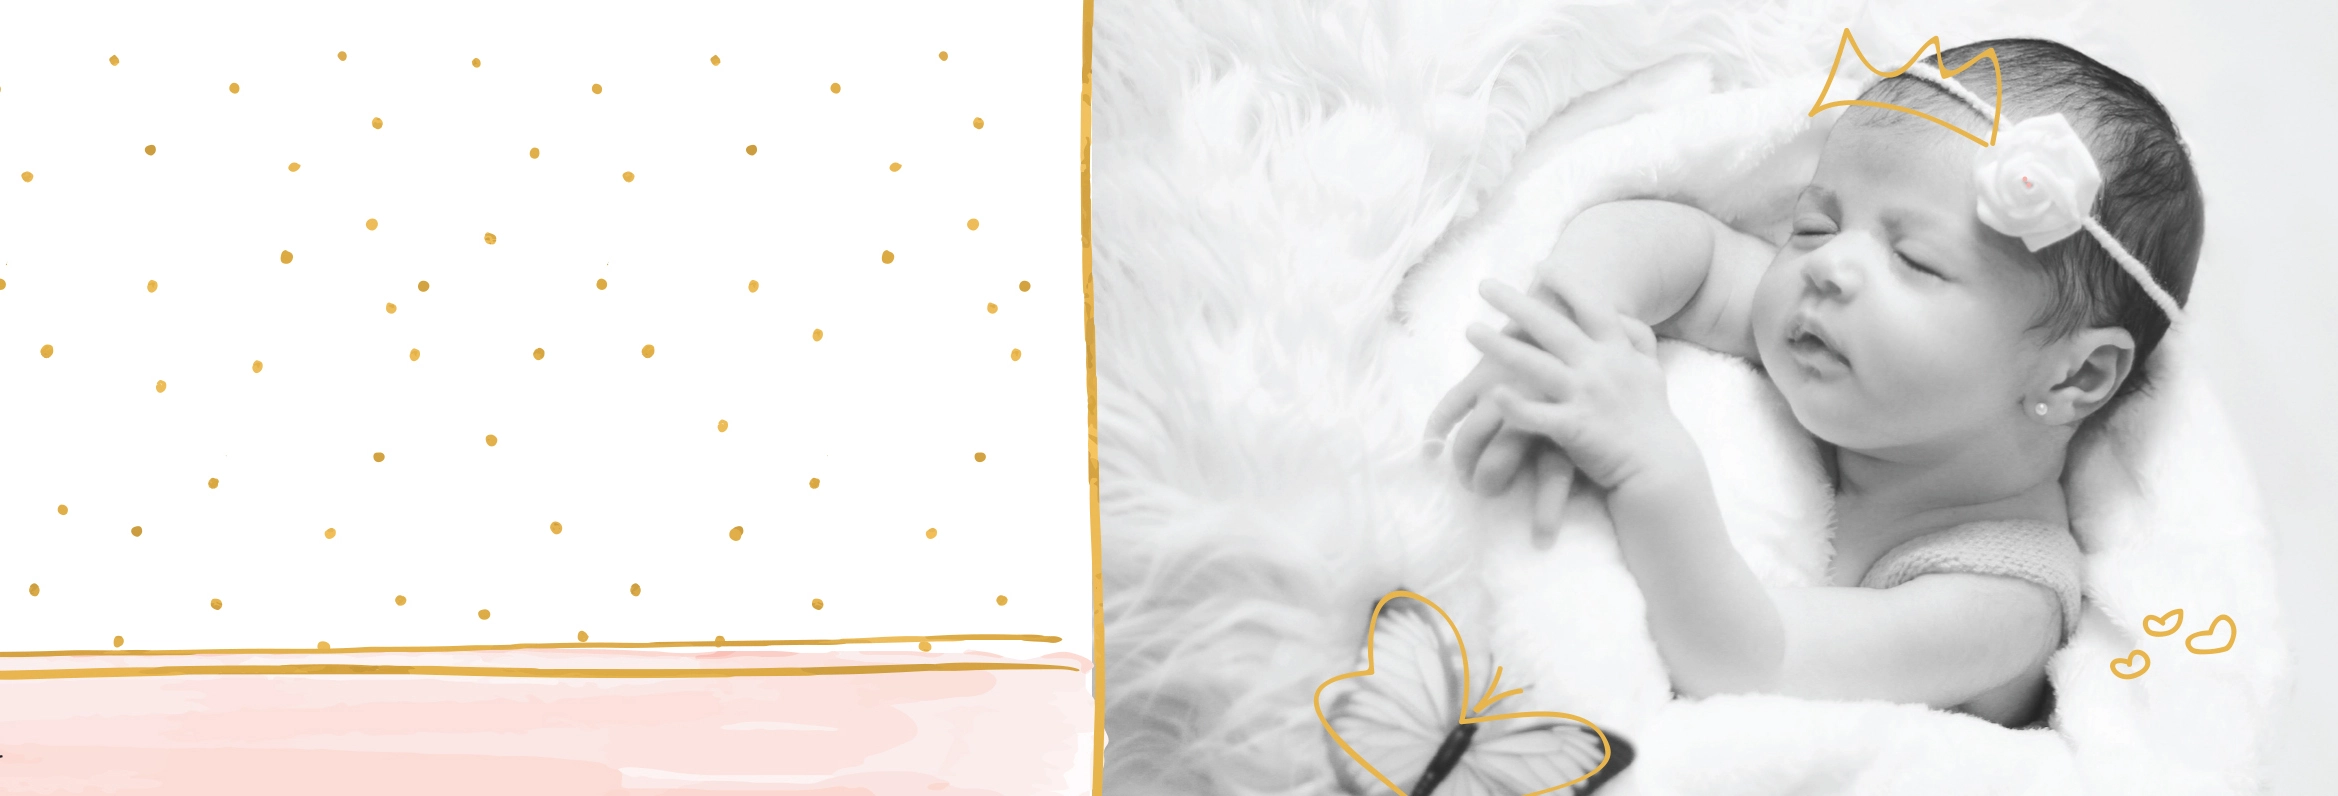
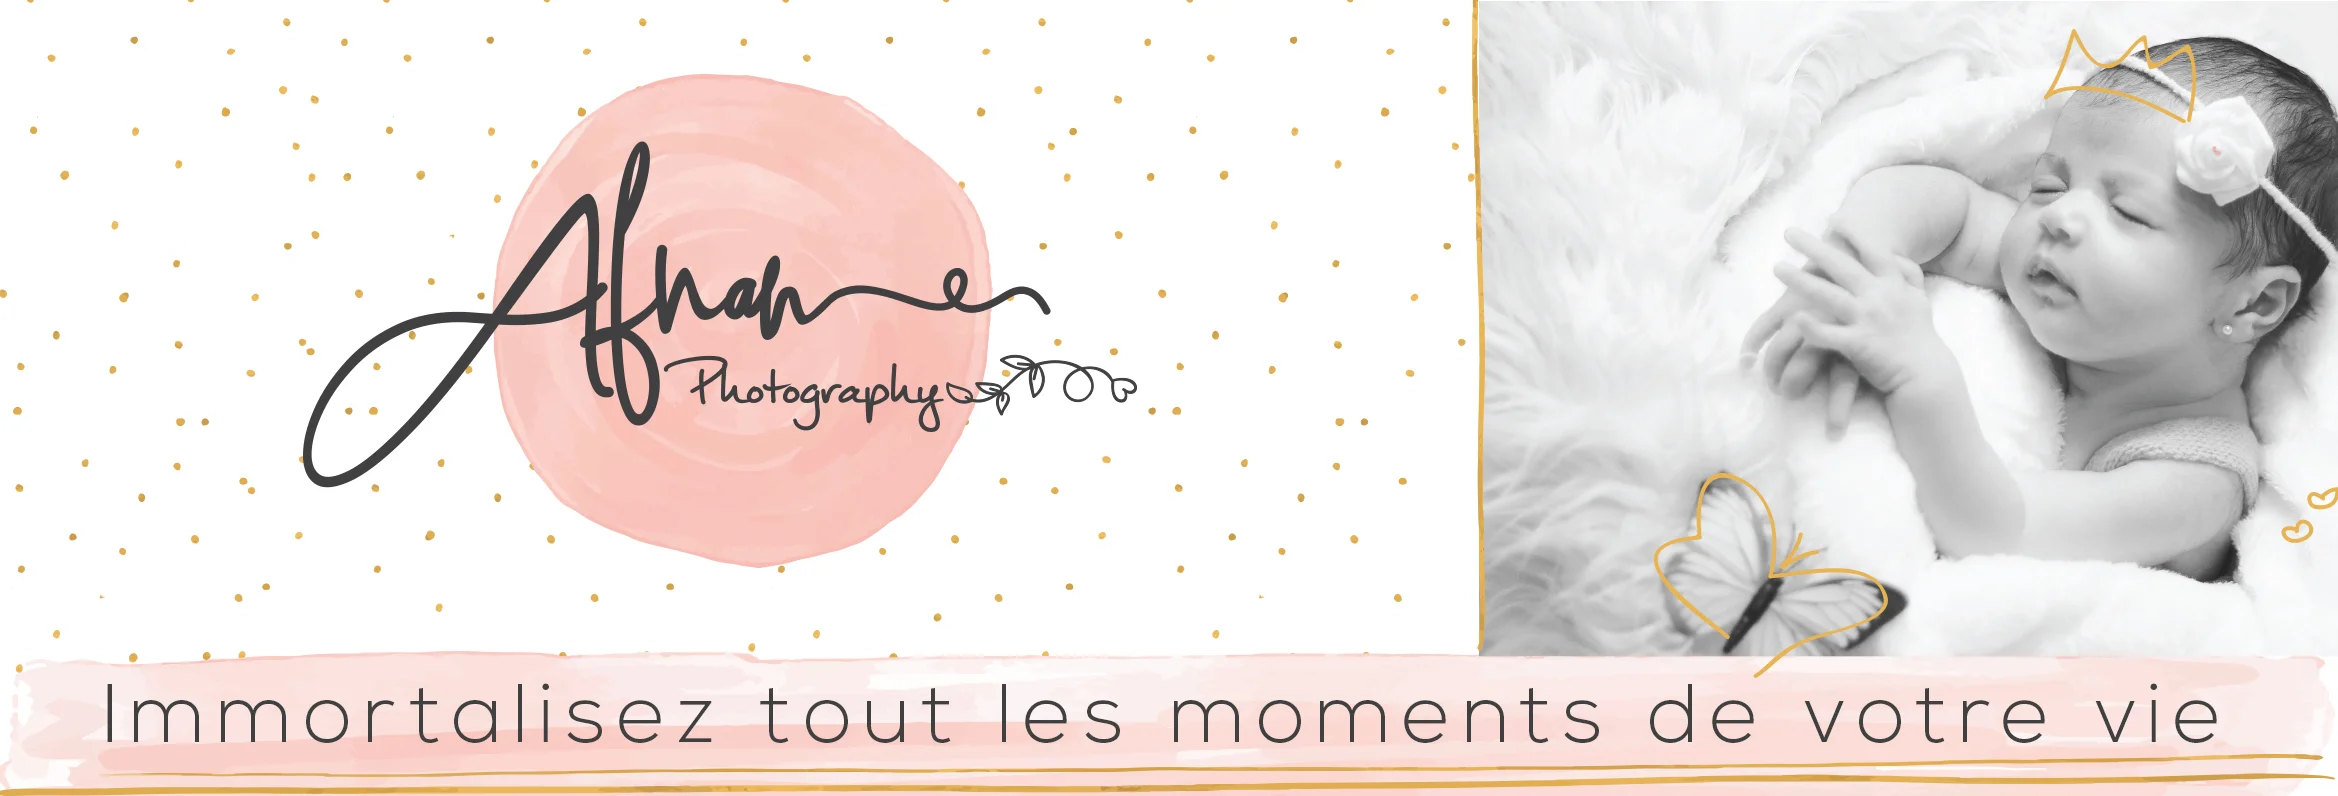
update the bannier to be responsive

diff --git a/src/components/service/bebe/Slider.tsx b/src/components/service/bebe/Slider.tsx
@@ -1,0 +1,84 @@
+import React from 'react'
+
+import Image from "next/image";
+import img1 from "../../../../public/bebe/MG_1107.webp";
+import img2 from "../../../../public/bebe/MG_1180.webp";
+import img3 from "../../../../public/bebe/MG_1205.webp";
+
+
+import { Splide, SplideSlide } from "splide-nextjs/react-splide";
+import "splide-nextjs/splide/dist/css/themes/splide-default.min.css";
+
+import { useState, useRef, useEffect } from "react";
+
+
+interface SplideRef {
+  splide: {
+    on: (event: string, callback: () => void) => void;
+    go: (index: number) => void;
+    index: number;
+  };
+}
+const Slider = () => {
+  const images = [img1, img2, img3];
+  const [activeSlide, setActiveSlide] = useState(0);
+  const splideRef = useRef<SplideRef | null>(null);
+
+  const handleImageClick = (index: any) => {
+    if (splideRef.current) {
+      splideRef.current.splide.go(index);
+    }
+  };
+
+  useEffect(() => {
+    if (splideRef.current) {
+      splideRef.current.splide.on('moved', () => {
+        if (splideRef.current) {
+          setActiveSlide(splideRef.current.splide.index);
+        }
+      });
+    }
+  }, []);
+  return (
+    <div>
+      <div className="relative">
+        <div
+          className="h-[745px] bg-cover bg-center"
+        >
+          <Splide ref={splideRef} aria-label="My Favorite Images">
+            {images.map((img, index) => (
+              <SplideSlide key={index}>
+                <Image
+                  src={img}
+                  alt={`Image ${index + 1}`}
+                  className="h-[745px] object-scale-down "
+                  loading="lazy"
+                  sizes={`(max-width: 600px) 480px, 800px`}
+                />
+              </SplideSlide>
+            ))}
+          </Splide>
+        </div>
+        <div className=" mt-4">
+          <div className="grid grid-cols-3 gap-x-1">
+            {images.map((img, index) => (
+              <div key={index} onClick={() => handleImageClick(index)} className="">
+                 <Image
+                  src={img}
+                  alt={`Image ${index + 1}`}
+                  layout="fixed"
+                  className={`object-scale-down h-[120px] ${index === activeSlide ? '' : 'grayscale'}`}
+                  loading="lazy"
+                  sizes={`(max-width: 600px) 480px, 800px`}
+                />
+              </div>
+            ))}
+          </div>
+        </div>
+      </div>
+
+    </div>
+  )
+}
+
+export default Slider

diff --git a/src/components/service/grossesse/Slider.tsx b/src/components/service/grossesse/Slider.tsx
@@ -1,0 +1,84 @@
+import React from 'react'
+
+import Image from "next/image";
+import img1 from "../../../../public/bebe/MG_1107.webp";
+import img2 from "../../../../public/bebe/MG_1180.webp";
+import img3 from "../../../../public/bebe/MG_1205.webp";
+
+
+import { Splide, SplideSlide } from "splide-nextjs/react-splide";
+import "splide-nextjs/splide/dist/css/themes/splide-default.min.css";
+
+import { useState, useRef, useEffect } from "react";
+
+
+interface SplideRef {
+  splide: {
+    on: (event: string, callback: () => void) => void;
+    go: (index: number) => void;
+    index: number;
+  };
+}
+const Slider = () => {
+  const images = [img1, img2, img3];
+  const [activeSlide, setActiveSlide] = useState(0);
+  const splideRef = useRef<SplideRef | null>(null);
+
+  const handleImageClick = (index: any) => {
+    if (splideRef.current) {
+      splideRef.current.splide.go(index);
+    }
+  };
+
+  useEffect(() => {
+    if (splideRef.current) {
+      splideRef.current.splide.on('moved', () => {
+        if (splideRef.current) {
+          setActiveSlide(splideRef.current.splide.index);
+        }
+      });
+    }
+  }, []);
+  return (
+    <div>
+      <div className="relative">
+        <div
+          className="h-[745px] bg-cover bg-center"
+        >
+          <Splide ref={splideRef} aria-label="My Favorite Images">
+            {images.map((img, index) => (
+              <SplideSlide key={index}>
+                <Image
+                  src={img}
+                  alt={`Image ${index + 1}`}
+                  className="h-[745px] object-scale-down "
+                  loading="lazy"
+                  sizes={`(max-width: 600px) 480px, 800px`}
+                />
+              </SplideSlide>
+            ))}
+          </Splide>
+        </div>
+        <div className=" mt-4">
+          <div className="grid grid-cols-3 gap-x-1">
+            {images.map((img, index) => (
+              <div key={index} onClick={() => handleImageClick(index)} className="">
+                 <Image
+                  src={img}
+                  alt={`Image ${index + 1}`}
+                  layout="fixed"
+                  className={`object-scale-down h-[120px] ${index === activeSlide ? '' : 'grayscale'}`}
+                  loading="lazy"
+                  sizes={`(max-width: 600px) 480px, 800px`}
+                />
+              </div>
+            ))}
+          </div>
+        </div>
+      </div>
+
+    </div>
+  )
+}
+
+export default Slider

diff --git a/src/components/service/bebe/Tarifs.tsx b/src/components/service/bebe/Tarifs.tsx
@@ -1,0 +1,23 @@
+import React from 'react'
+
+const Tarifs = () => {
+    return (
+        <div>
+            <div className="card">
+                <h1 className="services text-3xl text-center w-full">
+                    Séance photo Bébé 
+                </h1>
+                <h1 className="text-center text-3xl">600 dh</h1>
+                <ul className="list-disc list-inside">
+                    <li>Environ 1h de séance photo</li>
+                    <li>Accessoires et tenues à disposition</li>
+                    <li>Les photos de famille sont possibles</li>
+                    <li>10 images retouchées (sans tirage)</li>
+                    
+                </ul>
+            </div>
+        </div>
+    )
+}
+
+export default Tarifs

diff --git a/src/components/service/grossesse/Tarifs.tsx b/src/components/service/grossesse/Tarifs.tsx
@@ -1,0 +1,23 @@
+import React from 'react'
+
+const Tarifs = () => {
+    return (
+        <div>
+            <div className="card">
+                <h1 className="services text-3xl text-center w-full">
+                    Séance photo Bébé 
+                </h1>
+                <h1 className="text-center text-3xl">600 dh</h1>
+                <ul className="list-disc list-inside">
+                    <li>Environ 1h de séance photo</li>
+                    <li>Accessoires et tenues à disposition</li>
+                    <li>Les photos de famille sont possibles</li>
+                    <li>10 images retouchées (sans tirage)</li>
+                    
+                </ul>
+            </div>
+        </div>
+    )
+}
+
+export default Tarifs

diff --git a/src/components/Slider.tsx b/src/components/Slider.tsx
@@ -2,20 +2,19 @@
 import React from 'react'
 import Image from 'next/image'
 
-import img2 from '../../public/logo-FINAL-afnane.webp'
-
 import bannier from '../../public/banniere.webp'
 
 const Slider = () => {
 
   return (
-    <div className='h-[745px] bg-cover bg-center' style={{ backgroundImage: `url(${bannier.src})` }} id='home'>
+    <div className='' id='home'>
 
-      <div className='flex justify-center '>
-        <Image src={img2} alt={`Image`} className='h-[745px] object-scale-down ' loading="lazy" sizes={`(max-width: 600px) 480px, 800px`}/>
-
-      </div>
-
+      <Image
+        src={bannier}
+        alt="banniere"
+        className='bg-cover bg-center'
+        loading='lazy'
+      />
     </div>
   )
 }

diff --git a/src/components/service/bebe/Header.tsx b/src/components/service/bebe/Header.tsx
@@ -1,0 +1,18 @@
+import React from 'react'
+
+const Header = () => {
+    return (
+        <div>
+            <h1 className="services text-3xl text-center w-full">
+            Grossesse  
+            </h1>
+            <div className='flex justify-center py-5   text-lg'>
+                <p>
+                    Votre bébé grandit si vite, chaque jour est une bonne occasion de faire un shooting photo.
+                </p>
+            </div>
+        </div>
+    )
+}
+
+export default Header

diff --git a/src/components/service/grossesse/Header.tsx b/src/components/service/grossesse/Header.tsx
@@ -1,0 +1,18 @@
+import React from 'react'
+
+const Header = () => {
+    return (
+        <div>
+            <h1 className="services text-3xl text-center w-full">
+                Bébé
+            </h1>
+            <div className='flex justify-center py-5   text-lg'>
+                <p>
+                    Venez vivre l&apos;expérience d&apos;un shooting grossesse
+                </p>
+            </div>
+        </div>
+    )
+}
+
+export default Header
